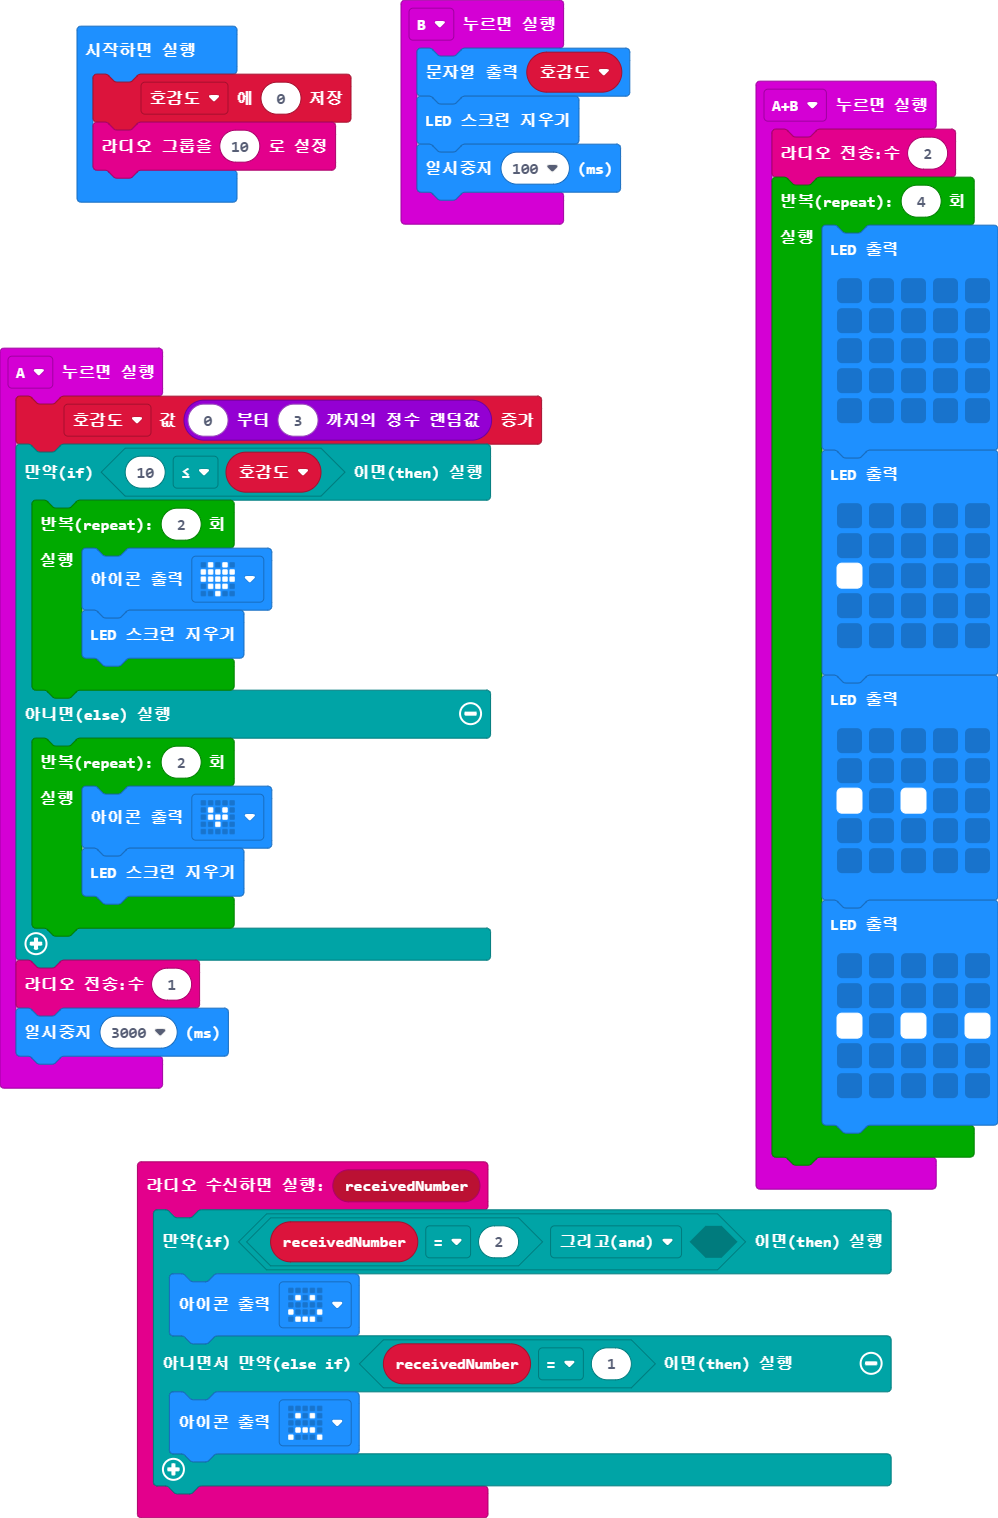
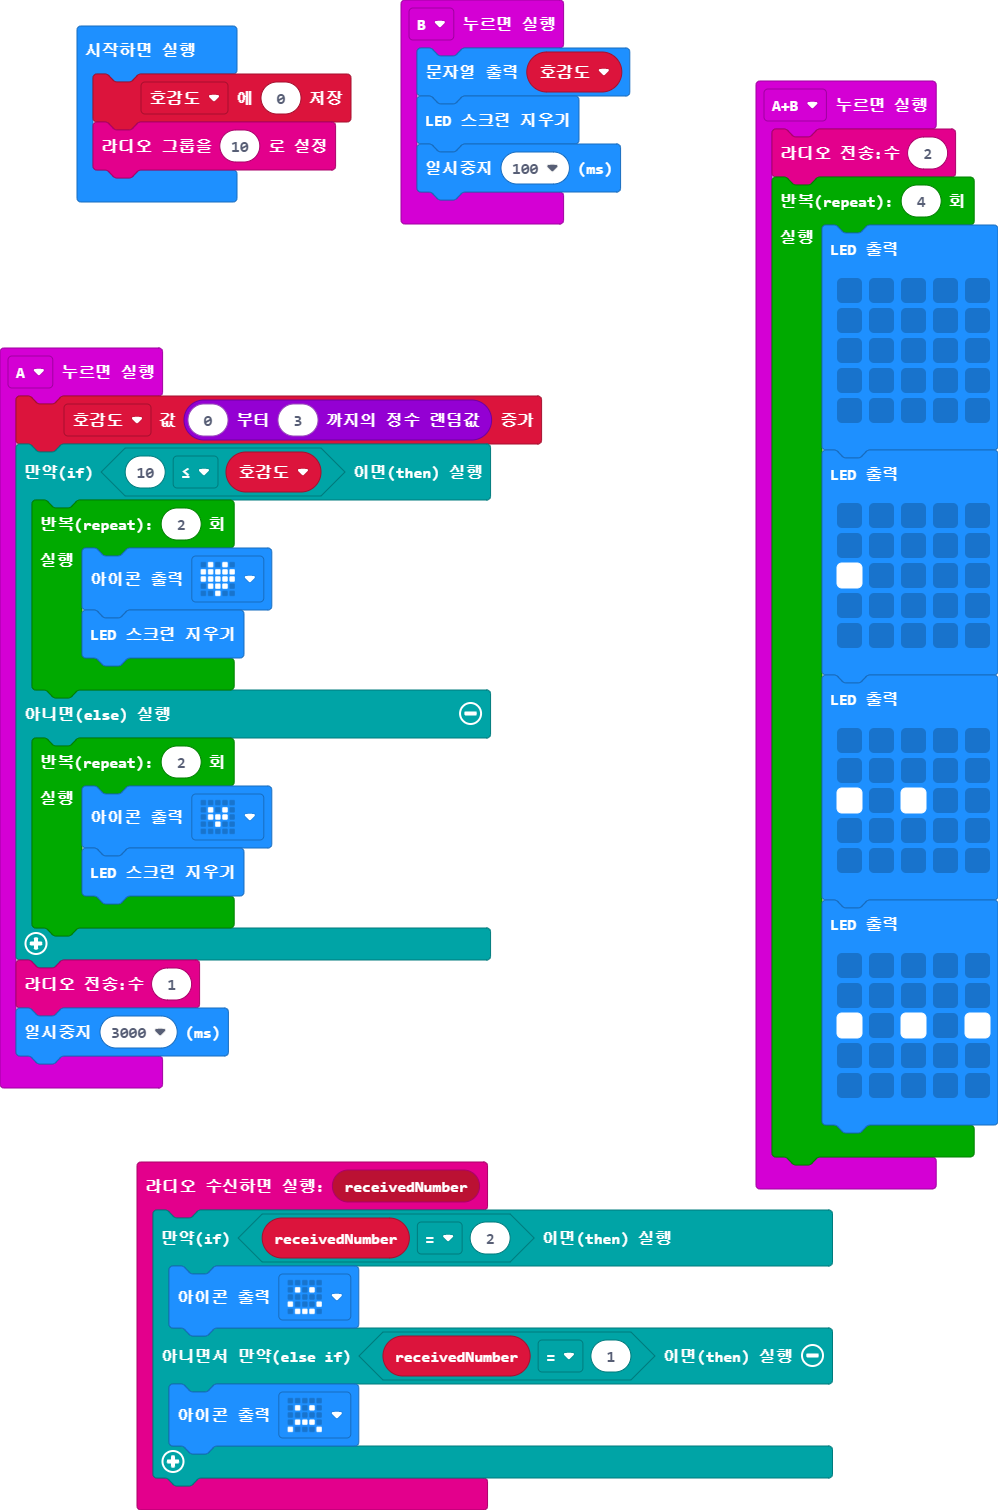
main.blocks, main.ts 업데이트하기

diff --git a/main.ts b/main.ts
@@ -1,5 +1,5 @@
 radio.onReceivedNumber(function (receivedNumber) {
-    if (receivedNumber == 2 && false) {
+    if (receivedNumber == 2) {
         basic.showIcon(IconNames.Happy)
     } else if (receivedNumber == 1) {
         basic.showIcon(IconNames.Sad)
